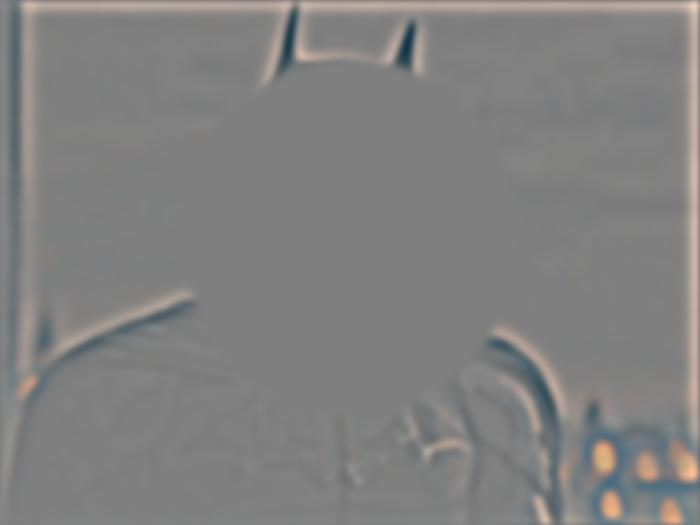
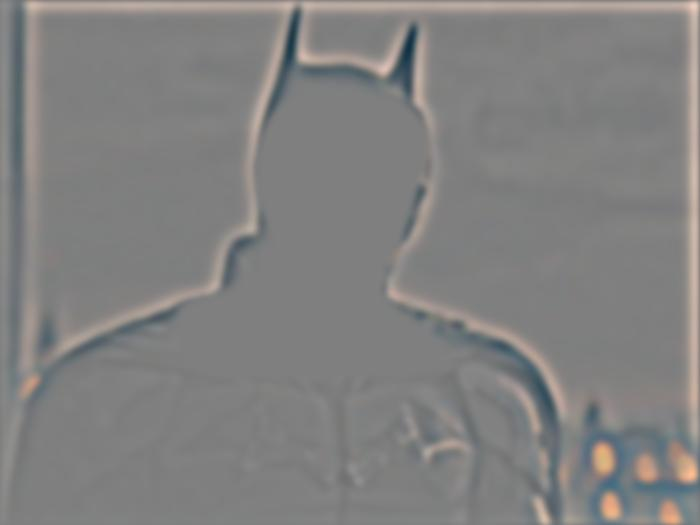
trace edward and tilt into cowl

diff --git a/main.py b/main.py
@@ -2256,11 +2256,87 @@ blend_and_save(
     debug=False
 )
 
-# For now the main result uses the same oval mask.
+# Final version: outline of Edward in edward.jpg, going clockwise from
+# the top of his hair. It covers the inner part of his hair, his face,
+# neck, collar and the top of his jacket out to the shoulder seams
+# (the jacket gets cut shorter below, after he's placed).
+# The wild outer hair and the teal background stay outside, so Batman's
+# cowl ears still rise above him.
+edward_outline = [
+    (0.526, 0.060), (0.580, 0.065), (0.620, 0.085), (0.640, 0.130),
+    (0.645, 0.200), (0.635, 0.270), (0.622, 0.333), (0.615, 0.400),
+    (0.611, 0.457), (0.619, 0.495), (0.650, 0.525), (0.690, 0.550),
+    (0.730, 0.575), (0.760, 0.605), (0.775, 0.650), (0.770, 0.705),
+    (0.745, 0.760), (0.700, 0.800), (0.620, 0.825), (0.530, 0.830),
+    (0.440, 0.822), (0.360, 0.795), (0.305, 0.750), (0.280, 0.695),
+    (0.285, 0.645), (0.315, 0.610), (0.355, 0.580), (0.395, 0.535),
+    (0.415, 0.495), (0.411, 0.429), (0.379, 0.381), (0.361, 0.314),
+    (0.354, 0.238), (0.365, 0.162), (0.401, 0.100), (0.454, 0.068),
+]
+
+# The blend mask is the same outline with the four points along his
+# left cheek pushed out ~10 px. Right on the outline, the coarse levels
+# of the blend are only half Edward, which blurred the side of his face.
+blend_outline = list(edward_outline)
+blend_outline[5:9] = [(0.642, 0.270), (0.638, 0.333), (0.632, 0.400), (0.622, 0.457)]
+
+# Placement. Edward's head leans about 8 degrees counter-clockwise and
+# Batman's leans about 6 degrees clockwise, so Edward gets tilted 13
+# degrees clockwise. His eyes and the middle of his mouth are then fit
+# onto target points inside the cowl. The targets start from Batman's
+# own eyes and mouth, moved 28 px left and pulled 5% closer together:
+# Batman's head is turned slightly, so his eyes sit right of the middle
+# of the cowl, and matching them exactly pushed Edward's cheek and hair
+# out past the cowl into the sky. (Fractions of width / height.)
+edward_landmarks = [(0.465, 0.322), (0.578, 0.300), (0.535, 0.452)]
+batman_eyes_mouth = np.array([(0.487, 0.366), (0.575, 0.380), (0.523, 0.505)])
+
+shifted = batman_eyes_mouth + [-28 / w, 0]
+eye_middle = shifted[:2].mean(axis=0)
+cowl_landmarks = eye_middle + 0.95 * (shifted - eye_middle)
+
+edward_placed, edward_batman_mask, edward_move = place_onto(
+    edward_blend,
+    traced_mask(h, w, blend_outline),
+    edward_landmarks,
+    cowl_landmarks,
+    tilt_deg=13.0
+)
+
+_, edward_silhouette, _ = place_onto(
+    edward_blend,
+    traced_mask(h, w, edward_outline),
+    edward_landmarks,
+    cowl_landmarks,
+    tilt_deg=13.0
+)
+
+# Cut the jacket off flat, about halfway between his chin and the bottom
+# of the traced jacket, with rounded corners so the shoulders curve into
+# the flat edge.
+jacket_cut = int(round(0.72 * h))
+edward_batman_mask = round_off_bottom(edward_batman_mask, jacket_cut, radius=50)
+edward_silhouette = round_off_bottom(edward_silhouette, jacket_cut, radius=50)
+
+# Swap the teal Forks background around Edward for the Batman image
+# before blending, so the soft edge of the blend pulls in Batman's sky
+# and cowl instead of a teal glow.
+edward_placed = replace_background(
+    edward_placed,
+    edward_silhouette,
+    batman_blend
+)
+
+print(
+    f"Edward placed onto Batman: scale {edward_move.scale:.3f}, "
+    f"tilt {np.degrees(edward_move.rotation):.1f} deg, "
+    f"shift {np.round(edward_move.translation, 1)} px"
+)
+
 edward_batman_final = blend_and_save(
-    edward_blend,   # inside white mask
-    batman_blend,   # outside mask
-    edward_batman_oval,
+    edward_placed,   # inside white mask
+    batman_blend,    # outside mask
+    edward_batman_mask,
     "outputs/part2_4/edward_batman",
     levels=blend_levels,
     base_sigma=blend_base_sigma
